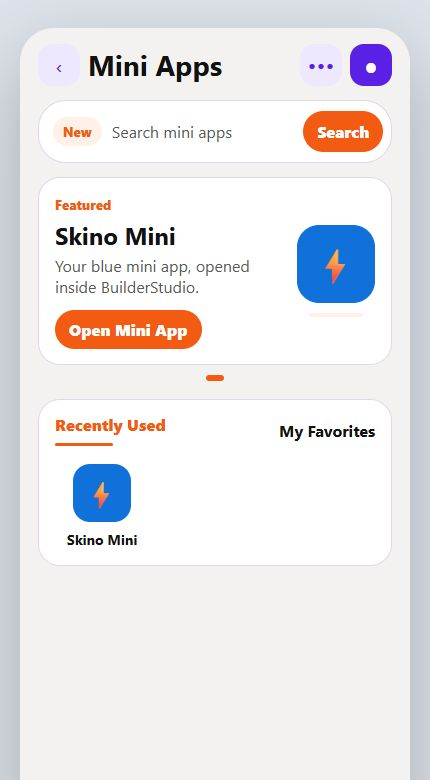
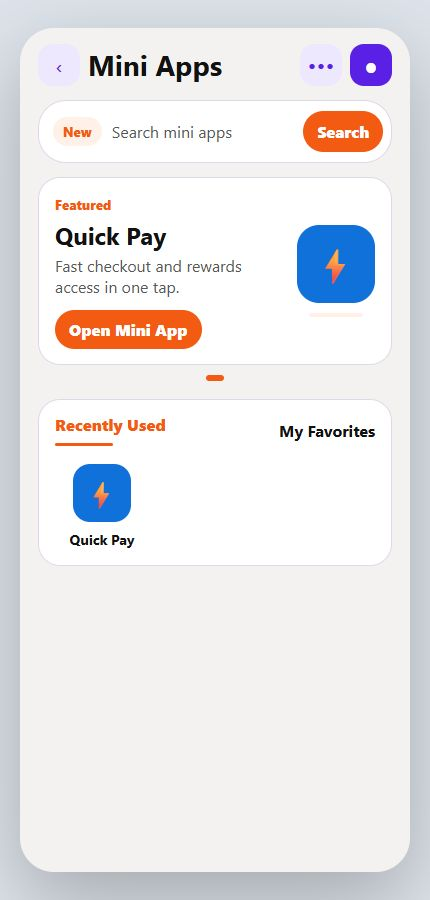
Rename mini app listing to Quick Pay

diff --git a/lib/app/features/mini_app_host/screen/mini_app_host_screen.dart b/lib/app/features/mini_app_host/screen/mini_app_host_screen.dart
@@ -159,9 +159,9 @@ class _PromoSliderState extends State<_PromoSlider> {
 
   static const List<_MiniAppListing> _miniApps = [
     _MiniAppListing(
-      title: 'Skino Mini',
+      title: 'Quick Pay',
       tag: 'Featured',
-      description: 'Your blue mini app, opened inside BuilderStudio.',
+      description: 'Fast checkout and rewards access in one tap.',
       icon: Icons.bolt_rounded,
     ),
   ];
@@ -366,7 +366,7 @@ class _MiniAppAccessPanel extends StatelessWidget {
                     ),
                     const SizedBox(height: 8),
                     Text(
-                      'Skino Mini',
+                      'Quick Pay',
                       textAlign: TextAlign.center,
                       maxLines: 2,
                       overflow: TextOverflow.ellipsis,
@@ -454,7 +454,7 @@ class _MiniAppTopBar extends StatelessWidget {
             child: Column(
               children: [
                 Text(
-                  'Skino Mini',
+                  'Quick Pay',
                   style: Theme.of(context).textTheme.titleMedium,
                 ),
                 const SizedBox(height: 2),

diff --git a/docs/mini-app-store-preview.html b/docs/mini-app-store-preview.html
@@ -314,7 +314,7 @@
           </div>
           <a class="icon-item" href="/assets/mini_app/index.html">
             <span class="mini-icon small">&#9889;</span>
-            <strong>Skino Mini</strong>
+            <strong>Quick Pay</strong>
           </a>
         </section>
       </section>
@@ -323,9 +323,9 @@
     <script>
       const miniApps = [
         {
-          title: "Skino Mini",
+          title: "Quick Pay",
           tag: "Featured",
-          description: "Your blue mini app, opened inside BuilderStudio.",
+          description: "Fast checkout and rewards access in one tap.",
           icon: "&#9889;",
           href: "/assets/mini_app/index.html",
         },
